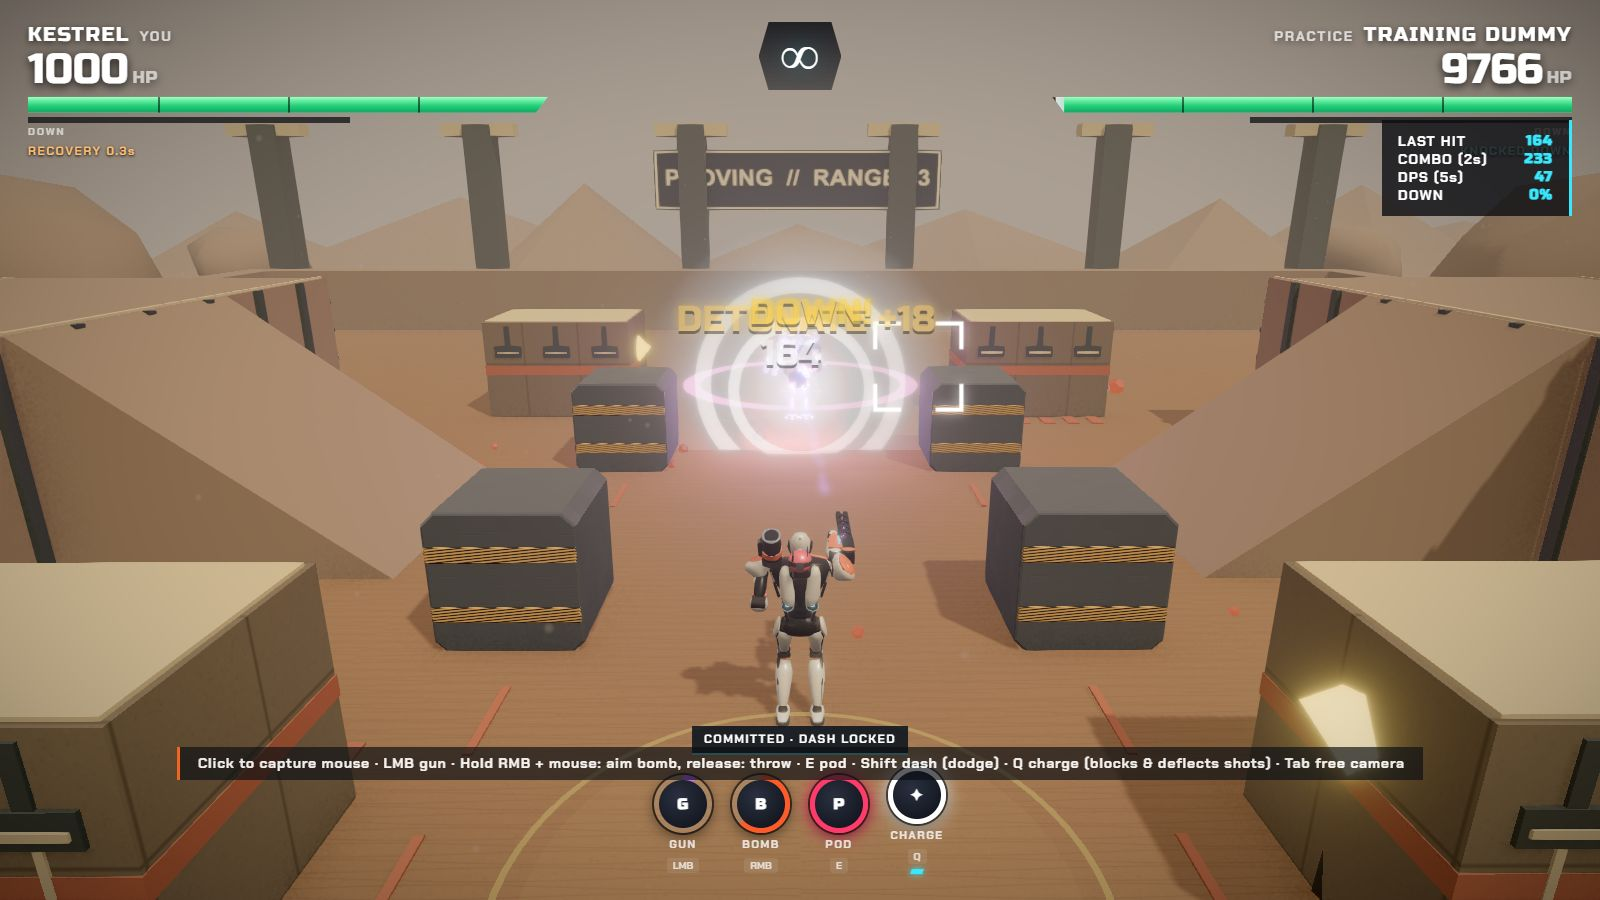
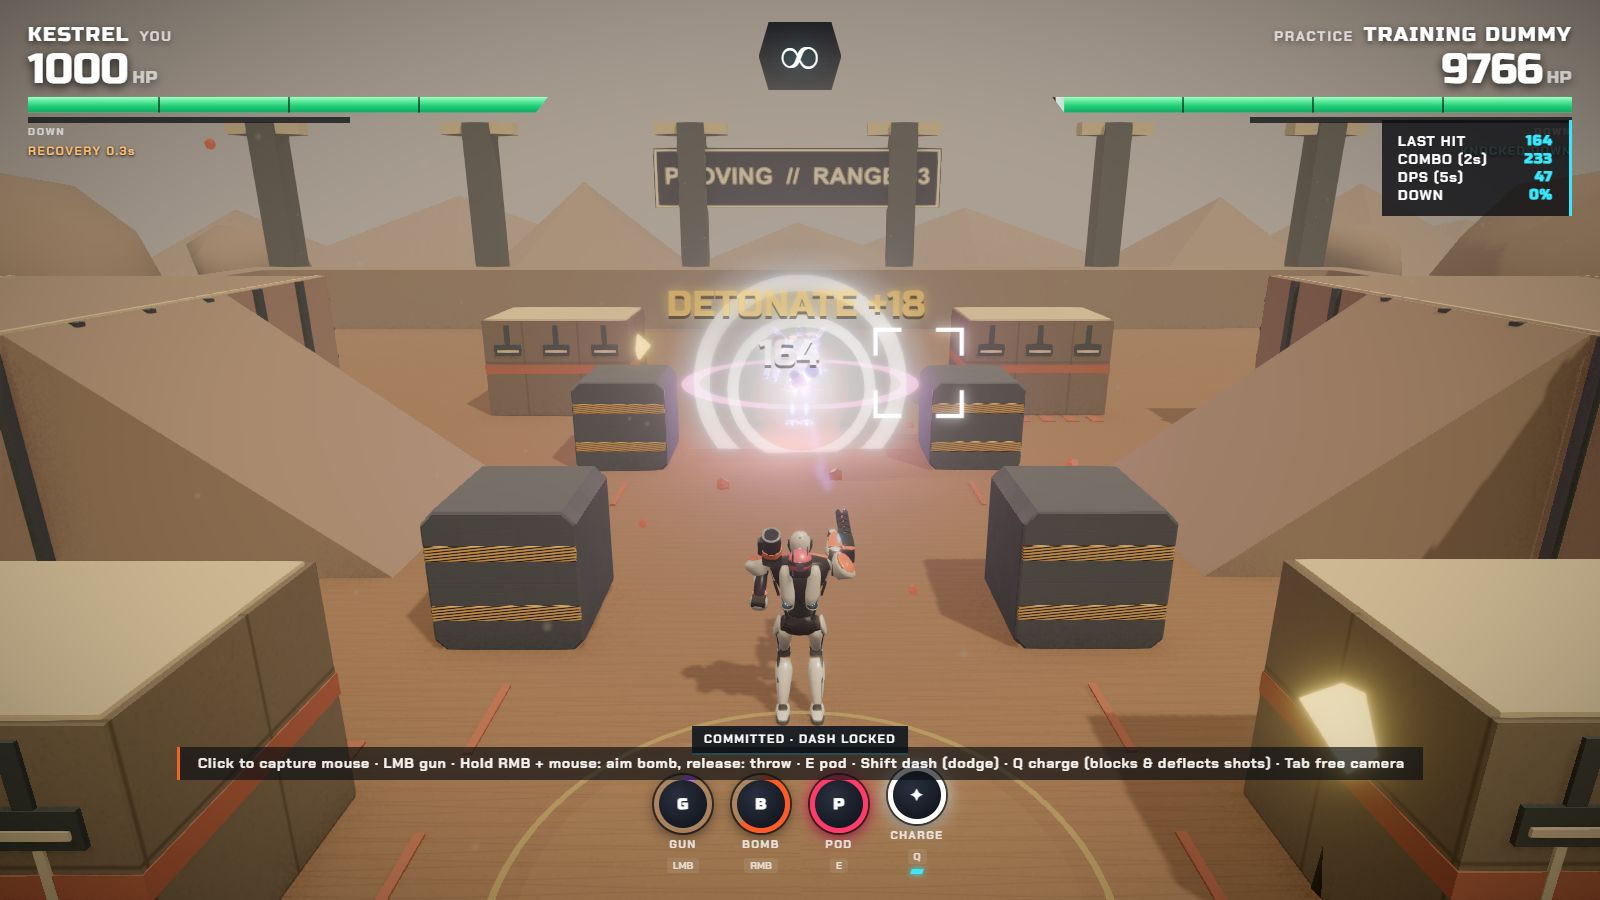
Record frozen Playtest 4 verification and Claude integration handoff

diff --git a/docs/PLAYTEST-4.md b/docs/PLAYTEST-4.md
@@ -35,3 +35,9 @@ Final candidate results recorded below after integration. Existing PT3 roadmap e
 Final source verification: 116 unit tests and TypeScript pass; full control/match smoke passes with all seven actions, 61 fps sampled, zero console problems. AI replay original 470/520 HP equals replay 470/520 HP. Uncapped 1080p medium Garden measured 151.7 fps, 617 aggregate draw calls across all render passes, 4.66ms mean render-call CPU time; no console warnings/errors. These hardware-specific results do not establish a mid-range-laptop guarantee.
 
 Matched pacing audit: 36 identical scenario pairs against PT3 commit c6a60a1, all fights finished by KO. PT3 mean 47.774s vs PT4 mean 47.115s, 1.379% faster (within proposed ±5% gate). PT4 produced 35 combos and 474 bonus HP across the 36 matches. This compares the integrated AI/trajectory/combo changes, not isolated combo causality or human PvP outcomes.
+
+## Frozen Playtest 4 release
+
+Build `pt4-4d05592` is live at http://127.0.0.1:5320/. The verified temporary preview on 5321 passed natural combo/cancel, manual-target replay (759/960 HP exact) and full-match smoke (61 fps, zero console problems). The same artifact was promoted to the existing 5320 origin, preserving the user's save without stopping any server. PT3 static files were backed up to `test-results/frozen-pt3-c6a60a1` before promotion. A fresh natural combo/cancel check on 5320 passed; telemetry uses the PT4 build ID.
+
+PRs: #34 animations and #35 combo/aim integration. The separate Claude integration PR #33 restores hit-stop/slow motion and probabilistic aim/spread, contrary to explicit instructions in this conversation; Codex posted a concrete coordination review rather than merging conflicting mechanics. Its heat/elemental/status/cancel expansion is not silently claimed as part of this build. Main/public hosting remains unchanged pending consolidation of the review stack. PT3 replays are incompatible with ruleset 4; save/loadout progress remains compatible.

diff --git a/docs/COORDINATION.md b/docs/COORDINATION.md
@@ -63,3 +63,7 @@ See [PLAYTEST-3.md](PLAYTEST-3.md) for player notes, telemetry, release boundari
 
 
 Frozen PT3 candidate c6a60a1 verified on http://127.0.0.1:5320/; final smoke and telemetry pass. PRs #23–26 remain draft pending performance acceptance; old PT2 remains on4317 after policy blocked replacement.
+
+## Playtest 4 — ready local candidate
+Owner closed PT3. Frozen pt4-4d05592 is live on5320 with save origin preserved;116tests, full frozen smoke, natural combo and manual-target replay verified. Claude Code design + bounded code reviews approved; PR #33 overlap/conflicting slowmo/RNG received written review. New PRs #34/#35 cover animations and mouse-aimed combo/effects integration. Main remains unchanged pending stack consolidation. See PLAYTEST-4.md.
+
